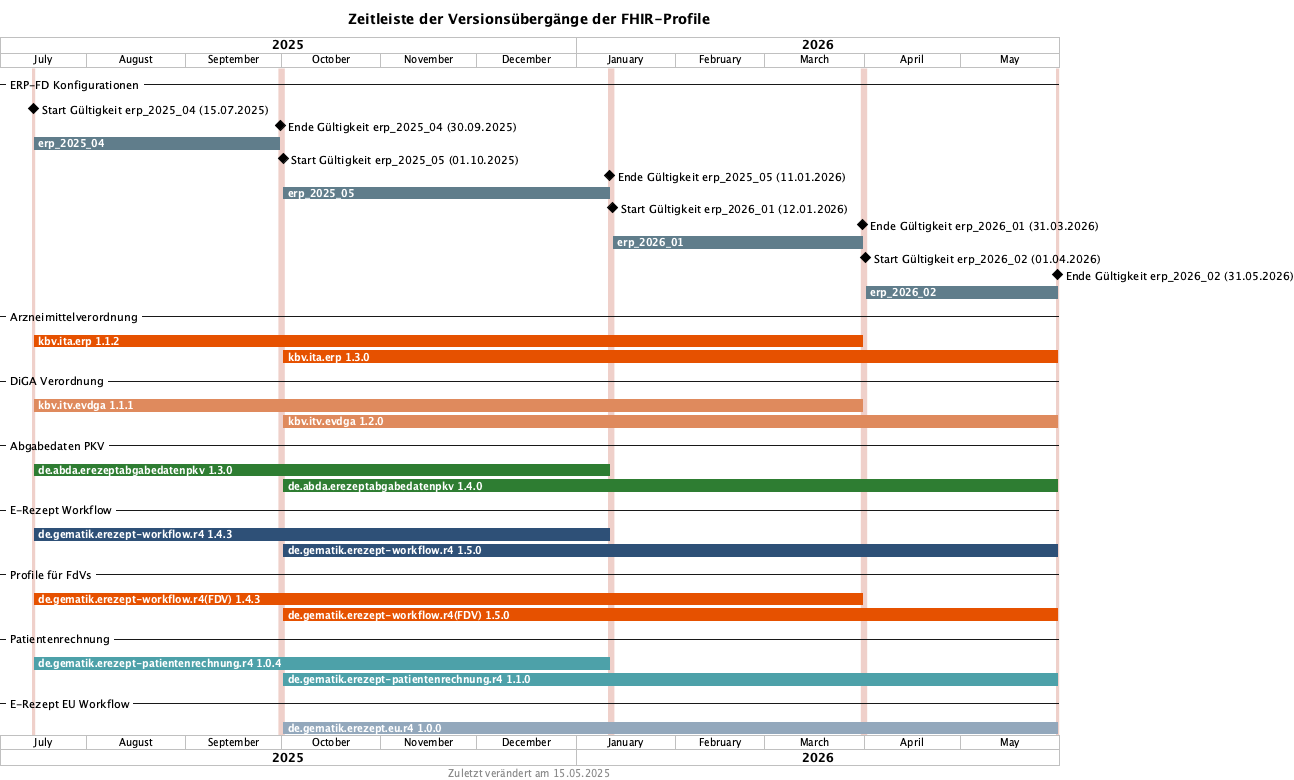
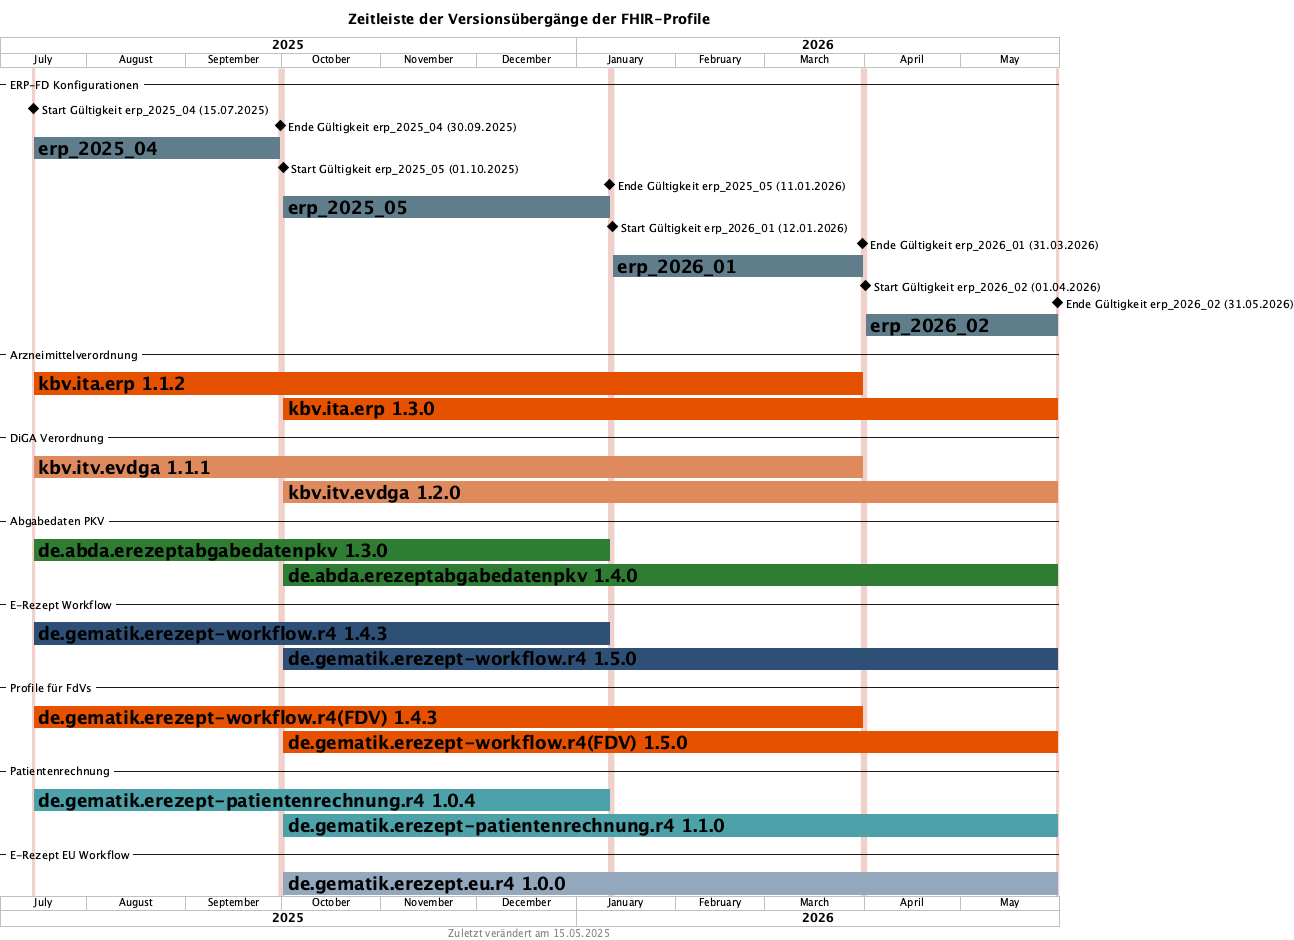
fixes

Changed region(s): [[0.0, 0.0, 1.0, 1.0]]

diff --git a/resources/scripts/fhir-timeline-build.py b/resources/scripts/fhir-timeline-build.py
@@ -150,8 +150,8 @@ def generate_gantt(configurations, package_mappings):
     puml.append("   task {")
     puml.append("      BackGroundColor GreenYellow")  # Default task color
     puml.append("      LineColor Green")
-    puml.append("      FontColor white")
-    puml.append("      FontSize 10")
+    puml.append("      FontColor black")
+    puml.append("      FontSize 18")
     puml.append("      FontStyle bold")
     puml.append("   }")
     puml.append("}")
